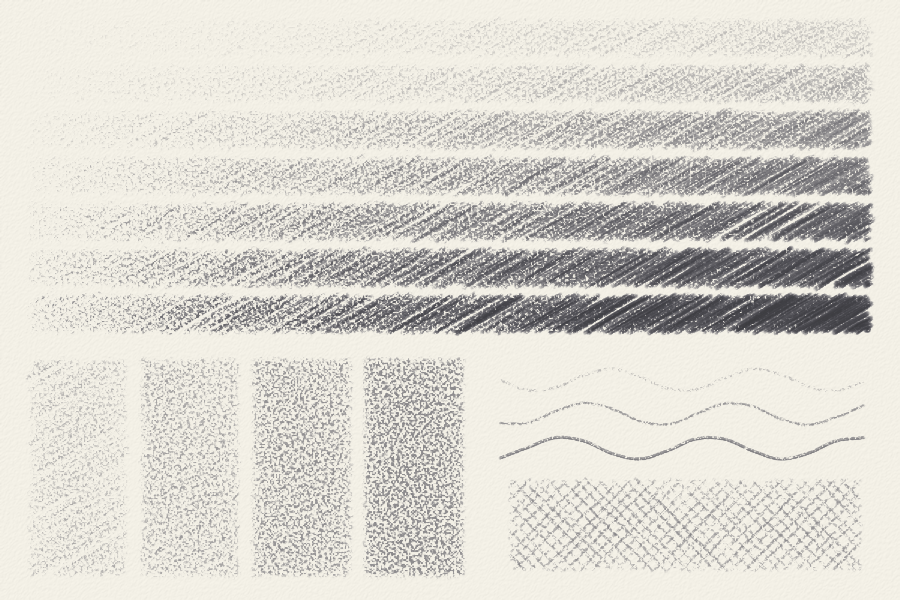
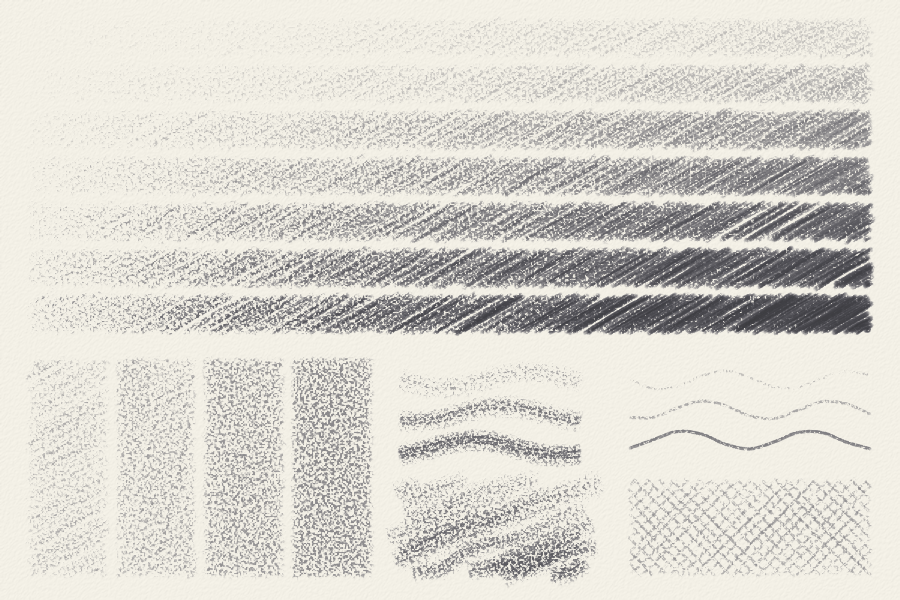
Let a stick be held on its side: tilt (#9)
Sheet.stroke and Sheet.shade take tilt, from 0 (the point) to 1 (the
side of the lead). On its side a pencil marks a band up to five times
wider than its point, across the stroke and no longer along it; its
weight is spread over more paper, so the band is lighter and grainier,
and its edges are soft.

The kernel's tip is now an ellipse (a half-width across the stroke and
one along it). A point draws as before: the tones measured for 4H, HB
and 6B are the same to three decimals.

Measured for a 2B of width 5 on cartridge paper at pressures 0.3, 0.6
and 1: the point covers 53%, 86% and 99% of the paper along its middle;
the side covers a band 26 pixels wide, more lightly.

Claude-Session: https://claude.ai/code/session_01EHReoi1LTNPtq461jGULpV

diff --git a/fusain/sheet.py b/fusain/sheet.py
@@ -123,6 +123,7 @@ class Sheet:
         medium: Medium,
         pressure: Profile = 0.5,
         width: float = 4.0,
+        tilt: float = 0.0,
     ) -> float:
         """Draw one pass of ``medium`` along ``path``.
 
@@ -134,15 +135,21 @@ class Sheet:
         function of u (0 at the start of the stroke, 1 at its end).
         ``width`` is the width of the tip in pixels. A pencil point is a few
         times wider than the paper's grain; one narrower than the grain draws
-        a dotted line.
+        a dotted line. ``tilt`` (0 to 1) is how far over the stick is held: 0
+        draws with its point, 1 with its side, which marks a band several
+        times wider than the point, across the stroke: broader, lighter and
+        grainier, with soft edges.
 
         Returns the volume of medium laid, which is what the tip lost.
 
         Raises ValueError, before anything is drawn, unless ``width`` is a
-        finite number above 0 and the pressures are finite.
+        finite number above 0, the pressures are finite and ``tilt`` is
+        between 0 and 1.
         """
         if not isinstance(medium, Medium):
             raise TypeError(f"medium must be a Medium, such as pencils.HB: {medium!r}")
+        if not 0.0 <= tilt <= 1.0:
+            raise ValueError(f"tilt must be between 0 (point) and 1 (side): {tilt!r}")
         xs, ys, bearing, steps = self._sampled(path, pressure, width)
         paper, pigment = self.paper, medium.pigment
         return float(
@@ -155,7 +162,9 @@ class Sheet:
                 ys,
                 bearing,
                 steps,
+                0.5 * float(width) * _spread(tilt),
                 0.5 * float(width),
+                float(tilt),
                 np.ascontiguousarray(pigment.K, dtype=np.float64),
                 float(pigment.S),
                 float(medium.softness),
@@ -299,6 +308,7 @@ class Sheet:
         angle: float = 30.0,
         spacing: float | None = None,
         hand: float = 1.0,
+        tilt: float = 0.0,
     ) -> float:
         """Shade ``area`` with one layer of strokes side by side, as a hand
         does: none quite straight or quite alike, each lighter where the tip
@@ -312,7 +322,9 @@ class Sheet:
         sheet, 90 up it). ``spacing`` is how far apart they are (by default
         a little over half a width, so that they overlap). ``hand`` is how
         unsteady the hand is: 1 for a natural one, 0 for ruler-straight
-        strokes, evenly spaced and all alike.
+        strokes, evenly spaced and all alike. ``tilt`` is as for
+        :meth:`stroke`: with the side of the stick the strokes are broader
+        (and fewer), lighter and softer.
 
         Shade again at another angle to cross-hatch or to build tone.
         Returns the volume of medium laid.
@@ -323,8 +335,11 @@ class Sheet:
         """
         if not isinstance(medium, Medium):
             raise TypeError(f"medium must be a Medium, such as pencils.HB: {medium!r}")
+        if not 0.0 <= tilt <= 1.0:
+            raise ValueError(f"tilt must be between 0 (point) and 1 (side): {tilt!r}")
         outline = hatching.as_outline(area)
-        gap = hatching.SPACING * width if spacing is None else spacing
+        broad = width * _spread(tilt)  # how wide a stroke's mark is
+        gap = hatching.SPACING * broad if spacing is None else spacing
         for name, value in (("width", width), ("spacing", gap)):
             if not (math.isfinite(value) and value > 0):
                 raise ValueError(
@@ -335,17 +350,22 @@ class Sheet:
         if not (math.isfinite(hand) and hand >= 0):
             raise ValueError(f"hand must be 0 (ruler-straight) or more, got {hand!r}")
         laid = 0.0
-        for path, firm, tip in hatching.strokes(
-            outline, angle, width, gap, hand, self._rng
+        for path, firm, mark in hatching.strokes(
+            outline, angle, broad, gap, hand, self._rng
         ):
             along = hatching.bearing(pressure, path, firm, hand)
-            laid += self.stroke(path, medium, pressure=along, width=tip)
+            laid += self.stroke(path, medium, along, mark / _spread(tilt), tilt)
         return laid
 
     def save(self, path: str, **render_options) -> None:
         """Render and save as PNG."""
         img = self.render(**render_options)
         write_png(path, np.round(img * 255).astype(np.uint8))
+
+
+def _spread(tilt: float) -> float:
+    """How many times wider than its point a stick marks at this tilt."""
+    return 1.0 + (eng.SIDE - 1.0) * float(tilt)
 
 
 def _size(name: str, value) -> int:

diff --git a/fusain/_engine.py b/fusain/_engine.py
@@ -44,6 +44,14 @@ JITTER = 0.3
 #: A tip is flat across, and rounded off over this share of its radius (and
 #: half a pixel) at the rim.
 RIM = 0.35
+#: A pencil held on its side marks with the side of its lead: at full tilt
+#: the mark is this many times wider than the point's, no more.
+SIDE = 5.0
+#: Its weight is then spread over more paper: the share of its reach into
+#: the tooth it loses at full tilt, and how much more of the tip (the share
+#: of what is not rim already) is rounded off, which softens its edges.
+TILT_REACH = 0.25
+TILT_RIM = 0.7
 #: A lead is not even: across the tip it bears up to this much more or less,
 #: in bands about STREAK_WIDTH pixels wide that run the length of the stroke.
 STREAK = 0.35
@@ -113,6 +121,8 @@ def lay_stroke(
     pressures,
     steps,
     radius,
+    length,
+    tilt,
     k,
     s,
     softness,
@@ -122,16 +132,20 @@ def lay_stroke(
     give,
     salt,
 ):
-    """Draw one pass of a round tip of ``radius`` pixels through the points
-    (``xs``, ``ys``), bearing with ``pressures`` (0..1) and moving ``steps``
-    pixels at each: lay the medium (absorption ``k`` per band and scattering
-    ``s`` per unit volume, ``softness`` and ``binding`` 0..1) on the paper
-    (``depth``, ``bite``, ``give``) where the tip touches its tooth.
+    """Draw one pass of a tip through the points (``xs``, ``ys``), bearing
+    with ``pressures`` (0..1) and moving ``steps`` pixels at each. The tip is
+    an ellipse, ``radius`` pixels across the stroke and ``length`` along it
+    (both half-widths; equal for a point), and ``tilt`` (0..1) says how far
+    over on its side the stick is held. Lay the medium (absorption ``k`` per
+    band and scattering ``s`` per unit volume, ``softness`` and ``binding``
+    0..1) on the paper (``depth``, ``bite``, ``give``) where the tip touches
+    its tooth.
 
     Returns the volume laid, which is the volume worn off the tip.
     """
     height, width = tooth.shape
     reach = (REACH_HARD + REACH_SOFT * softness) * (GIVE_NONE + GIVE_FULL * give)
+    reach *= 1.0 - TILT_REACH * tilt
     # (a level paper is touched all over: any pressure reaches all of it)
     reach = reach / depth if depth > 1e-6 else 1e9
     shape = FILL_HARD + (1.0 - FILL_HARD) * softness**1.5
@@ -142,10 +156,11 @@ def lay_stroke(
         * (FILL_FLAT + (1.0 - FILL_FLAT) * min(depth, 2.0))
         * (0.5 + 0.5 * bite)
     )
-    bound = radius + 0.5
-    rim = RIM * bound + 0.5
+    wide, long = radius + 0.5, length + 0.5
+    bound = max(wide, long)
+    rounded = RIM + (1.0 - RIM) * TILT_RIM * tilt
     # a pixel on the path of the tip's centre gets one pass's worth in all
-    per_pass = 1.0 / (2.0 * bound - rim)
+    per_pass = 1.0 / (2.0 * long - (rounded * long + 0.5))
     total = 0.0
     for i in range(xs.shape[0]):
         pressure = pressures[i]
@@ -161,11 +176,17 @@ def lay_stroke(
         for iy in range(y0, y1):
             for ix in range(x0, x1):
                 dx, dy = ix + 0.5 - x, iy + 0.5 - y
-                d = math.sqrt(dx * dx + dy * dy)
-                edge = min(bound - d, 1.0)
-                if edge <= 0.0:
+                # how far out in the tip this is (1 at its edge), and how
+                # far in from the edge, in pixels
+                forward, sideways = dx * tx + dy * ty, dy * tx - dx * ty
+                out = math.sqrt((forward / long) ** 2 + (sideways / wide) ** 2)
+                if out >= 1.0:
                     continue
-                local = pressure * min((bound - d) / rim, 1.0)
+                d = math.sqrt(dx * dx + dy * dy)
+                across = d / out if out > 1e-9 else min(wide, long)
+                inside = across - d
+                edge = min(inside, 1.0)
+                local = pressure * min(inside / (rounded * across + 0.5), 1.0)
                 local *= streak_at(dx, dy, tx, ty, salt)
                 level = 1.0 - reach * local**REACH_POWER
                 level += JITTER * (unit_noise(ix, iy, salt) - 0.5)

diff --git a/tests/test_graphite.py b/tests/test_graphite.py
@@ -260,6 +260,87 @@ def test_a_firm_line_keeps_the_grain_of_the_paper():
     assert pigment.std() > 0.3 * pigment.mean()
 
 
+def _marked_rows(sheet) -> int:
+    return int(np.count_nonzero(sheet.pigment()[:, 50:90].sum(axis=1)))
+
+
+def test_a_pencil_on_its_side_marks_a_band_several_times_wider():
+    marks = {}
+    for tilt in (0.0, 0.5, 1.0):
+        sheet = _sheet(Paper(depth=0))
+        sheet.stroke(Polyline([(30, 30), (110, 30)]), pencils.B2, 0.6, 5.0, tilt)
+        marks[tilt] = sheet.pigment()
+        # broader across the stroke: up to 5 times, no more
+        assert abs(_marked_rows(sheet) - 5.0 * (1 + 4 * tilt)) <= 2
+        # but no longer: it starts and stops where the point would
+        columns = np.nonzero(marks[tilt].sum(axis=0))[0]
+        assert 26 <= columns.min() <= 28 and 111 <= columns.max() <= 113
+    # its edges are soft: the tone falls away from the middle of the band,
+    # where the point's is flat right up to its rim
+    across = marks[1.0][:, 50:90].mean(axis=1)
+    assert across[30 - 9 : 30 + 9].min() < 0.75 * across[29:31].mean()
+    point = marks[0.0][:, 50:90].mean(axis=1)
+    assert point[29:31].min() > 0.8 * point.max()
+
+
+def test_the_side_of_a_lead_lays_a_lighter_grainier_tone_than_its_point():
+    def middle(tilt, pressure) -> tuple[float, float]:
+        sheet = _sheet()
+        sheet.stroke([(10, 30), (130, 30)], pencils.B2, pressure, 5.0, tilt)
+        rows = (slice(29, 31), slice(30, 110))
+        return float(sheet.pigment()[rows].mean()), float(sheet.cover[rows].mean())
+
+    for pressure in (0.3, 0.6, 1.0):
+        point, side = middle(0.0, pressure), middle(1.0, pressure)
+        assert side[0] < 0.75 * point[0]  # lighter
+        assert side[1] < point[1] - 0.1  # and it skips more of the valleys
+
+    # all the same it lays more in all, over its wider band
+    def laid(tilt) -> float:
+        return _sheet().stroke([(10, 30), (130, 30)], pencils.B2, 0.6, 5.0, tilt)
+
+    assert laid(0.0) < laid(1.0) < 5 * laid(0.0)
+
+
+def test_shading_with_the_side_takes_fewer_broader_strokes(monkeypatch):
+    def shaded(tilt) -> tuple[float, float]:
+        sheet = Sheet(200, 150, seed=2)
+        sheet.shade((20, 20, 180, 130), pencils.B2, 0.6, 5.0, tilt=tilt)
+        middle = (slice(50, 100), slice(50, 150))
+        return float(sheet.cover[middle].mean()), float(sheet.pigment()[middle].mean())
+
+    point, side = shaded(0.0), shaded(1.0)
+    assert 0.3 < side[0] < point[0] - 0.1 and side[1] < point[1]
+
+    # the default spacing follows the width of the mark: a fifth of the
+    # strokes, each five times wider
+    def strokes(tilt) -> list[float]:
+        sheet, widths = Sheet(200, 150, seed=2), []
+        draw = sheet.stroke
+
+        def counting(path, medium, pressure, width, tilt):
+            widths.append(width)
+            return draw(path, medium, pressure, width, tilt)
+
+        monkeypatch.setattr(sheet, "stroke", counting)
+        sheet.shade((20, 20, 180, 130), pencils.B2, 0.6, 5.0, hand=0.0, tilt=tilt)
+        return widths
+
+    point, side = strokes(0.0), strokes(1.0)
+    assert 4 * len(side) <= len(point) <= 6 * len(side)
+    assert set(point) == set(side) == {5.0}  # the point's width, either way
+
+
+@pytest.mark.parametrize("tilt", [-0.1, 1.5, float("nan")])
+def test_tilt_is_between_point_and_side(tilt):
+    sheet = _sheet()
+    with pytest.raises(ValueError, match="tilt must be between 0"):
+        sheet.stroke([(20, 30), (120, 30)], pencils.HB, 0.5, 4.0, tilt)
+    with pytest.raises(ValueError, match="tilt must be between 0"):
+        sheet.shade((20, 20, 100, 50), pencils.HB, tilt=tilt)
+    assert not sheet.pigment().any()
+
+
 def test_how_a_path_is_given_does_not_change_the_line():
     two = _sheet().stroke(Polyline([(20, 30), (120, 30)]), pencils.B2, 0.5)
     many = _sheet().stroke(

diff --git a/examples/pencils.py b/examples/pencils.py
@@ -1,4 +1,5 @@
-"""Graphite pencils on cartridge paper: what grade, pressure and layering do.
+"""Graphite pencils on cartridge paper: what grade, pressure, layering and
+the tilt of the pencil do.
 
 Run from the repository root: ``python examples/pencils.py``. Writes
 ``examples/output/pencils.png``:
@@ -7,6 +8,8 @@ Run from the repository root: ``python examples/pencils.py``. Writes
   with the pressure rising from left to right;
 * bottom left, HB at a light pressure in 1, 2, 4 and 8 layers, each layer at
   another angle;
+* bottom middle, a 4B held on its side: three broad strokes, light to firm,
+  and a patch shaded that way, firmer towards the bottom;
 * bottom right, 2B lines drawn lightly, firmly and hard, and cross-hatching.
 """
 
@@ -28,18 +31,27 @@ def main() -> None:
         box = (30, top, 870, top + 36)
         sheet.shade(box, pencils.grade(name), lambda x, y: 0.05 + 0.95 * (x - 30) / 840)
     for i, layers in enumerate((1, 2, 4, 8)):
-        left = 30 + i * 112
+        left = 30 + i * 88
         for layer in range(layers):
             sheet.shade(
-                (left, 360, left + 96, 575), pencils.HB, 0.3, angle=30 + 47 * layer
+                (left, 360, left + 76, 575), pencils.HB, 0.3, angle=30 + 47 * layer
             )
+    for k, pressure in enumerate((0.3, 0.6, 1.0)):
+        wave = [
+            (400 + 30 * j, 380 + 34 * k + 8 * np.sin(j * 1.1 + k)) for j in range(7)
+        ]
+        sheet.stroke(wave, pencils.B4, pressure, width=5, tilt=1.0)
+    side = (400, 480, 590, 575)
+    sheet.shade(
+        side, pencils.B4, lambda x, y: 0.3 + 0.7 * (y - 480) / 95, 5, 20, tilt=1.0
+    )
     for k, pressure in enumerate((0.2, 0.5, 0.95)):
         wave = [
-            (500 + 28 * j, 380 + 34 * k + 11 * np.sin(j * 1.2 + k)) for j in range(14)
+            (630 + 24 * j, 380 + 30 * k + 9 * np.sin(j * 1.2 + k)) for j in range(11)
         ]
         sheet.stroke(wave, pencils.B2, pressure=pressure)
-    sheet.shade((510, 480, 860, 570), pencils.HB, 0.6, width=4, angle=45, spacing=9)
-    sheet.shade((510, 480, 860, 570), pencils.HB, 0.6, width=4, angle=-45, spacing=9)
+    sheet.shade((630, 480, 870, 575), pencils.HB, 0.6, width=4, angle=45, spacing=9)
+    sheet.shade((630, 480, 870, 575), pencils.HB, 0.6, width=4, angle=-45, spacing=9)
     out = Path(__file__).parent / "output" / "pencils.png"
     sheet.save(str(out))
     print(f"wrote {out}")

diff --git a/docs/design.md b/docs/design.md
@@ -80,6 +80,10 @@ spectra.
 
 A tool is a tip plus, usually, a medium.
 
+- **Tilt** (built). A stick held on its side marks with the side of its lead:
+  an ellipse across the stroke, up to five times wider than the point, whose
+  weight is spread over more paper, so the mark is lighter, grainier and soft
+  at the edges.
 - **Tip.** A shape (point, flat, the side of a stick) and a size. In the first
   version the tip is a formula: a point whose flat grows with the volume worn
   off, and `sharpen()` to reset it. A worn tip stored as its own small height
@@ -199,6 +203,7 @@ from fusain import Sheet, papers, pencils, pastels, tools
 sheet = Sheet(1200, 800, paper=papers.CARTRIDGE, seed=1)
 sheet.stroke([(100, 300), (300, 220), (500, 320)], pencils.HB, pressure=0.4)
 sheet.shade((100, 360, 500, 520), pencils.HB, pressure=0.4, angle=30)
+sheet.stroke([(100, 560), (500, 550)], pencils.B4, tilt=1)   # the side of the lead
 sheet.stroke(path, pastels.soft("#c0392b"), pressure=(0.2, 0.8), side=True)
 sheet.smudge(path, tools.STUMP)
 sheet.erase(path, tools.KNEADED)

diff --git a/README.md b/README.md
@@ -25,6 +25,7 @@ sheet = Sheet(800, 600, paper=papers.CARTRIDGE, seed=1)
 sheet.stroke([(100, 300), (300, 220), (500, 320)], pencils.B2, pressure=0.6)
 sheet.shade((100, 360, 500, 520), pencils.HB, pressure=0.4)             # an even tone
 sheet.shade((100, 360, 500, 520), pencils.HB, pressure=0.4, angle=-40)  # a second layer, across
+sheet.stroke([(100, 560), (500, 550)], pencils.B4, tilt=1)             # with the side of the lead
 sheet.save("drawing.png")
 ```
 
@@ -32,7 +33,9 @@ sheet.save("drawing.png")
 
 Top: 4H, 2H, HB, 2B, 4B, 6B and 8B, each shaded with the pressure rising from
 left to right. Bottom left: HB at a light pressure in 1, 2, 4 and 8 layers.
-Bottom right: 2B lines drawn lightly, firmly and hard, and cross-hatching.
+Bottom middle: a 4B held on its side (`tilt=1`), which marks a broad, soft,
+grainy band. Bottom right: 2B lines drawn lightly, firmly and hard, and
+cross-hatching.
 
 Sizes are in pixels, and the paper's `grain` sets the scale: a pencil line is
 two or three grains wide.

diff --git a/CHANGELOG.md b/CHANGELOG.md
@@ -8,6 +8,10 @@ and the project adheres to [Semantic Versioning](https://semver.org/).
 
 ### Added
 
+- `tilt`, for `Sheet.stroke` and `Sheet.shade`: a stick held on its side marks
+  a band up to five times wider than its point, lighter, grainier and soft at
+  the edges. The tip is now an ellipse, as long along the stroke as the point
+  is wide.
 - Charcoal, `fusain.charcoal`: vine, compressed and charcoal pencil. Most of
   what it lays is dust.
 - `Sheet.smudge` and `Sheet.erase`, with the tools of `fusain.tools`: stump,
